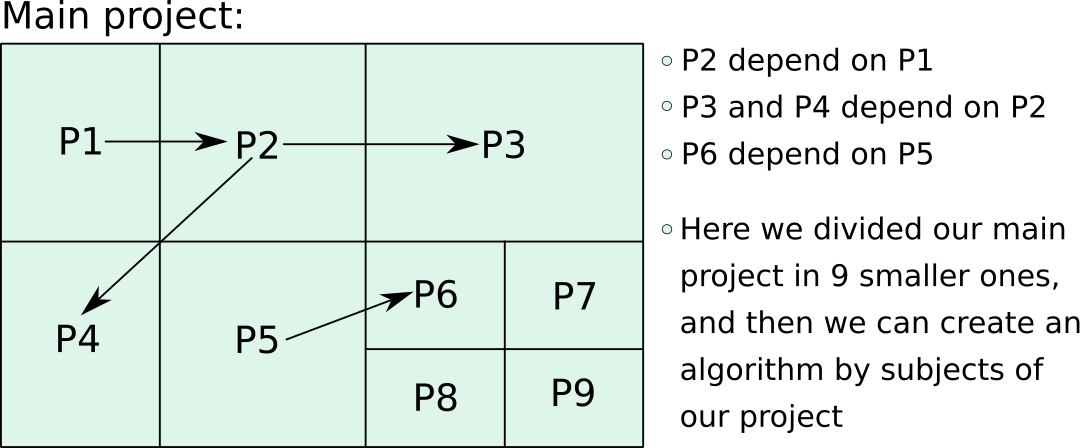
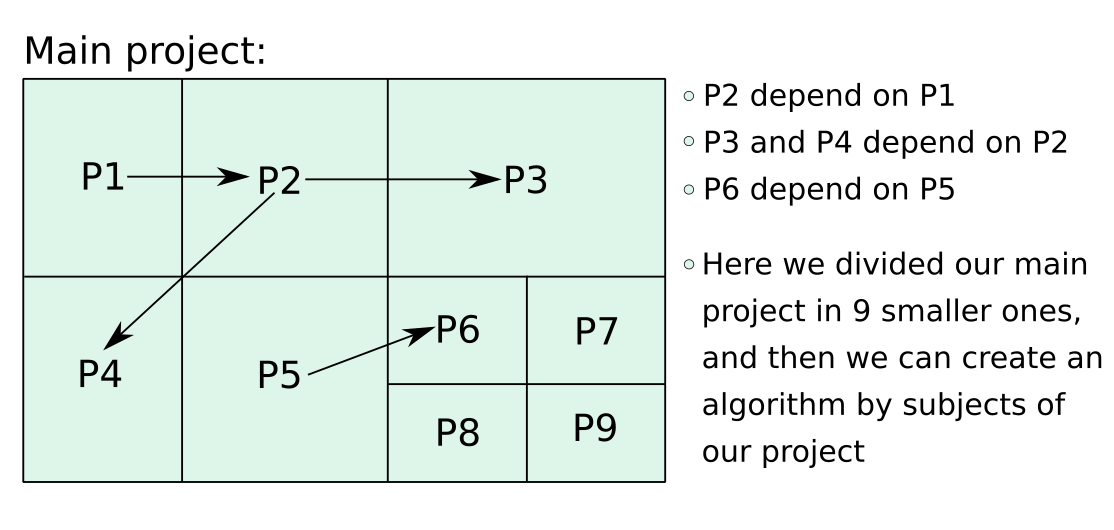
step1

Changed region(s): [[0.0, 0.0, 1.0, 1.0]]

diff --git a/content/post/2-Computer_Programming/index.html b/content/post/2-Computer_Programming/index.html
@@ -27,9 +27,9 @@ output:
 <div class="header1">
 <h1 id="overview-of-the-seven-steps">Overview of the Seven Steps</h1>
 </div>
-<p>The seven steps proposed by Hilton et al. (2019) is very interesting strategy to start a new project that involves programming process, where a summary of the entire process in shown in the Figure 1.</p>
+<p>The seven steps proposed by Hilton et al. (2019) is very interesting strategy to start a new project that involves programming process, where a summary of the entire process is shown in the Figure 1.</p>
 <div class="figure"><span id="fig:unnamed-chunk-1"></span>
-<img src="steps.png" alt="The seven steps (modified from Hilton et al. (2019))" width="683" />
+<img src="seven_steps.png" alt="The seven steps (modified from Hilton et al. (2019))" width="684" />
 <p class="caption">
 Figure 1: The seven steps (modified from Hilton et al. (2019))
 </p>
@@ -40,7 +40,7 @@ Figure 1: The seven steps (modified from Hilton et al. (2019))
 </div>
 <p>This is the moment where you spend time thinking about the project and how could you divide them into small tasks. Start your project drawing a diagram of it by hand, including the main subjects, how you could sorted out the problems, and how many main algorithms should you create to have your project done. Here you may include how the project could be sub-divided in smaller tasks, how this tasks are connected, and if there is an order to execute them (Figure 2). Consequently, this should reflect in the number of main algorithms to be build. Doing a good job during this stage will facilitate the remainder steps.</p>
 <div class="figure"><span id="fig:unnamed-chunk-2"></span>
-<img src="main_project.png" alt="Example of how divide the main project into small tasks" width="541" />
+<img src="main_project.png" alt="Example of how divide the main project into small tasks" width="557" />
 <p class="caption">
 Figure 2: Example of how divide the main project into small tasks
 </p>
@@ -52,7 +52,7 @@ Figure 2: Example of how divide the main project into small tasks
 <p><span class="math display">\[E[y]=10-0.5x_1+0.6x_1^2-0.6x_2+0.2x_2^2+0.1x_1x_2\]</span>
 Thus, we can pick particular values for <span class="math inline">\(x_1\)</span>, and <span class="math inline">\(x_2\)</span> to calculate the total fat <span class="math inline">\(y\)</span> by hand. If <span class="math inline">\(x_{1}=2\)</span>, <span class="math inline">\(x_{2}=1\)</span>, then
 <span class="math display">\[y=10-0.5\times2+0.6\times 2^2-0.6\times 1+0.2 \times 1^2+0.1\times 2 \times 1 = 11.2.\]</span></p>
-<p>Now, suppose the the second aim is optimizing reduced fat ice cream formulation from this fitted model. In this sense, we are looking for the global minimum through the response surface, consequently, we can divide our project into, e. g., two tasks:</p>
+<p>Now, suppose the the second aim is the optimization of reduction in fat ice cream formulation from this fitted model. In this sense, we are looking for the global minimum through the response surface, consequently, we can divide our project into, e. g., two tasks:</p>
 <div class="div-2">
 <ol style="list-style-type: decimal">
 <li>Generalize the function for any <span class="math inline">\(x_1\)</span> and <span class="math inline">\(x_2\)</span>;</li>
@@ -80,6 +80,7 @@ Thus, we can pick particular values for <span class="math inline">\(x_1\)</span>
   text-align: justify;
 }
 .div-2{
+  color: black;
   text-align: justify;
   background-color: #d6edd3;
 }

diff --git a/public/authors/admin/index.html b/public/authors/admin/index.html
@@ -785,26 +785,26 @@ MathJax.Hub.Config({
 
     <p align="justify">
 Dr. Thiago de Paula Oliveira holds his PhD in Statistics from University of São Paulo,
-Brazil, and has at least <ins>six years experience</ins> in experimental
+Brazil, and has at least seven years experience in experimental
 statistics, statistical modeling, and concordance analysis. As PhD candidate, he was a visitor
 Scholar at National University of Ireland in 2016, working with
-statistical modeling for agricultural data. He was a <ins>lecturer</ins> in the Department of Exact
+statistical modeling for agricultural data. He was a lecturer in the Department of Exact
 Sciences at ESALQ/University of São Paulo, Piracicaba, São Paulo, Brazil from 2017 to 2019.
 </p>
 <p align="justify">
 He was a Researcher Biostatistician at Insight 
 Centre for Data Analytics working in partnership with Orreco and NUI
-Galway in the development of <ins>statistical methods applied to athlete performance</ins>. 
+Galway in the development of statistical methods applied to athlete performance. 
 Thiago developed statistical methods in longitudinal 
 concordance correlation, multilevel model (hierarchical model), 
 generalized linear mixed-effects model, experimental design, longitudinal
 data. 
 </p>
 <p align="justify">
-As an enthusiast of the usage of <ins>dashboard apps</ins> to create interactive data visualization, Thiago belives that interactive applications is an easier way to create visual representations of large data sets, allowing the user explore the complex reality of the database, or even handle multiple sets of data in a single visualization.
+As an enthusiast of the usage of dashboard apps to create interactive data visualization, Thiago belives that interactive applications is an easier way to create visual representations of large data sets, allowing the user explore the complex reality of the database, or even handle multiple sets of data in a single visualization.
 </p>
 <p align="justify">
-Currently, he is working at the NUI Galway as Researcher on development of <ins>statistical methods in sports</ins>.
+Currently, he is working at the NUI Galway as Researcher on development of statistical methods in sports.
 </p>
 
 

diff --git a/public/index.html b/public/index.html
@@ -919,26 +919,26 @@ MathJax.Hub.Config({
 
     <p align="justify">
 Dr. Thiago de Paula Oliveira holds his PhD in Statistics from University of São Paulo,
-Brazil, and has at least <ins>six years experience</ins> in experimental
+Brazil, and has at least seven years experience in experimental
 statistics, statistical modeling, and concordance analysis. As PhD candidate, he was a visitor
 Scholar at National University of Ireland in 2016, working with
-statistical modeling for agricultural data. He was a <ins>lecturer</ins> in the Department of Exact
+statistical modeling for agricultural data. He was a lecturer in the Department of Exact
 Sciences at ESALQ/University of São Paulo, Piracicaba, São Paulo, Brazil from 2017 to 2019.
 </p>
 <p align="justify">
 He was a Researcher Biostatistician at Insight 
 Centre for Data Analytics working in partnership with Orreco and NUI
-Galway in the development of <ins>statistical methods applied to athlete performance</ins>. 
+Galway in the development of statistical methods applied to athlete performance. 
 Thiago developed statistical methods in longitudinal 
 concordance correlation, multilevel model (hierarchical model), 
 generalized linear mixed-effects model, experimental design, longitudinal
 data. 
 </p>
 <p align="justify">
-As an enthusiast of the usage of <ins>dashboard apps</ins> to create interactive data visualization, Thiago belives that interactive applications is an easier way to create visual representations of large data sets, allowing the user explore the complex reality of the database, or even handle multiple sets of data in a single visualization.
+As an enthusiast of the usage of dashboard apps to create interactive data visualization, Thiago belives that interactive applications is an easier way to create visual representations of large data sets, allowing the user explore the complex reality of the database, or even handle multiple sets of data in a single visualization.
 </p>
 <p align="justify">
-Currently, he is working at the NUI Galway as Researcher on development of <ins>statistical methods in sports</ins>.
+Currently, he is working at the NUI Galway as Researcher on development of statistical methods in sports.
 </p>
 
 

diff --git a/content/authors/admin/_index.md b/content/authors/admin/_index.md
@@ -52,17 +52,17 @@ user_groups:
 
 <p align="justify">
 Dr. Thiago de Paula Oliveira holds his PhD in Statistics from University of São Paulo,
-Brazil, and has at least <ins>six years experience</ins> in experimental
+Brazil, and has at least seven years experience in experimental
 statistics, statistical modeling, and concordance analysis. As PhD candidate, he was a visitor
 Scholar at National University of Ireland in 2016, working with
-statistical modeling for agricultural data. He was a <ins>lecturer</ins> in the Department of Exact
+statistical modeling for agricultural data. He was a lecturer in the Department of Exact
 Sciences at ESALQ/University of São Paulo, Piracicaba, São Paulo, Brazil from 2017 to 2019.
 </p>
 
 <p align="justify">
 He was a Researcher Biostatistician at Insight 
 Centre for Data Analytics working in partnership with Orreco and NUI
-Galway in the development of <ins>statistical methods applied to athlete performance</ins>. 
+Galway in the development of statistical methods applied to athlete performance. 
 Thiago developed statistical methods in longitudinal 
 concordance correlation, multilevel model (hierarchical model), 
 generalized linear mixed-effects model, experimental design, longitudinal
@@ -70,10 +70,10 @@ data.
 </p>
 
 <p align="justify">
-As an enthusiast of the usage of <ins>dashboard apps</ins> to create interactive data visualization, Thiago belives that interactive applications is an easier way to create visual representations of large data sets, allowing the user explore the complex reality of the database, or even handle multiple sets of data in a single visualization.
+As an enthusiast of the usage of dashboard apps to create interactive data visualization, Thiago belives that interactive applications is an easier way to create visual representations of large data sets, allowing the user explore the complex reality of the database, or even handle multiple sets of data in a single visualization.
 </p>
 
 <p align="justify">
-Currently, he is working at the NUI Galway as Researcher on development of <ins>statistical methods in sports</ins>.
+Currently, he is working at the NUI Galway as Researcher on development of statistical methods in sports.
 </p>
 
